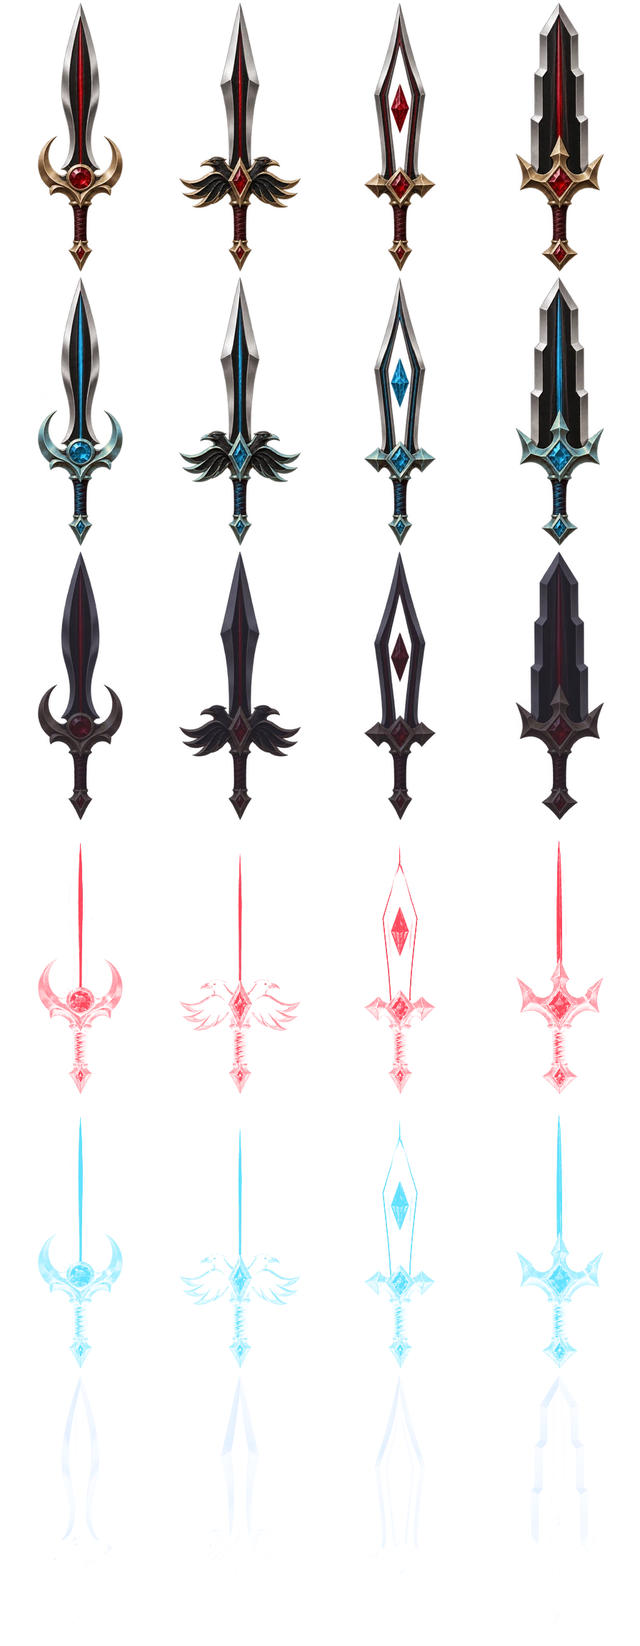
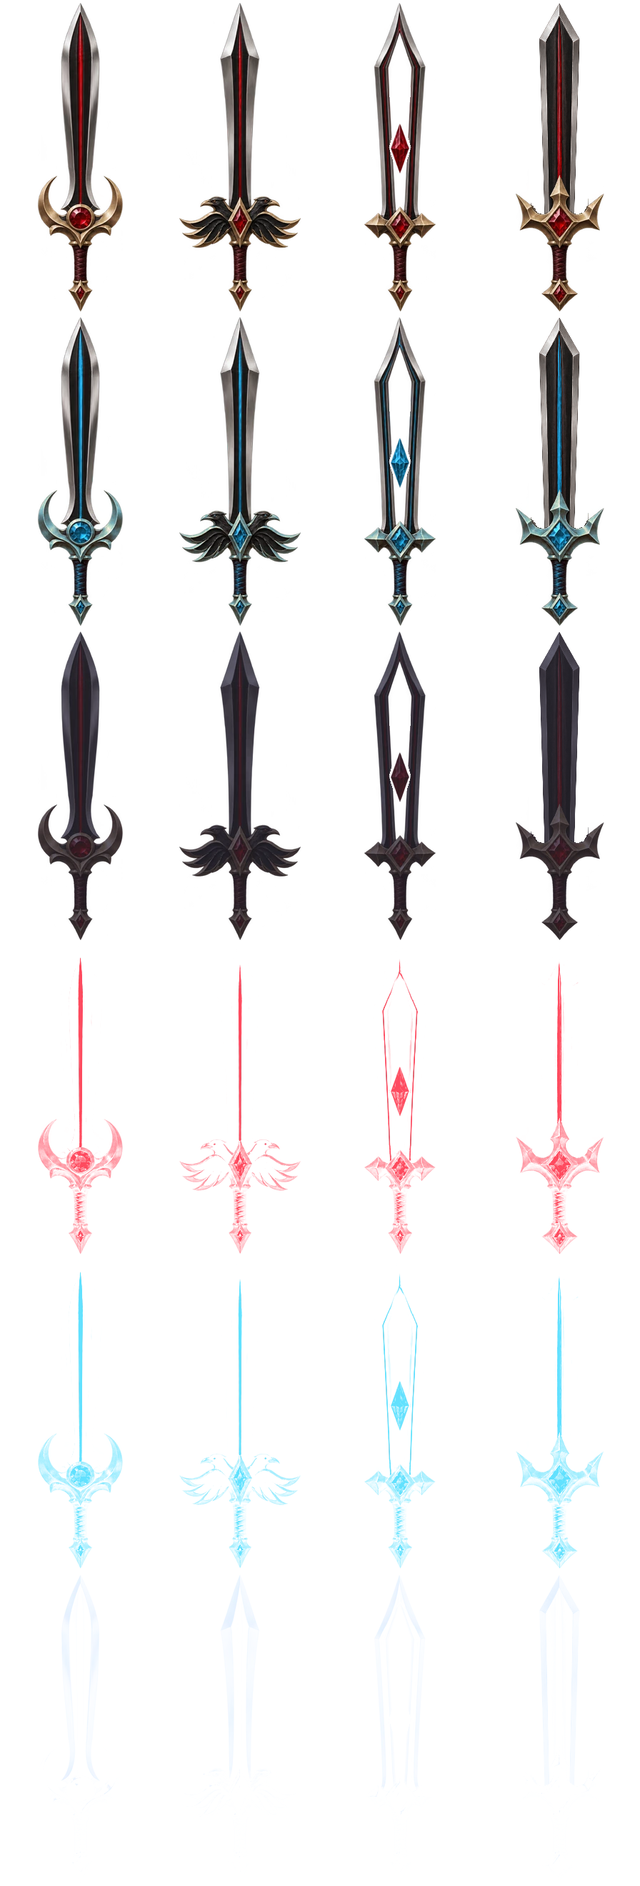
Lengthen the imperial blades and taper the crown sword toward the hilt

diff --git a/server/plastic-front/public/patch-notes.html b/server/plastic-front/public/patch-notes.html
@@ -2,7 +2,7 @@
 :root{color-scheme:light;--ink:#233c32;--muted:#53654f;--paper:#f6f3e8;--line:#cdd0bc;--accent:#385b3d}*{box-sizing:border-box}html{scroll-behavior:smooth;scroll-padding-top:24px}body{margin:0;background:var(--paper);color:var(--ink);font:16px/1.85 "Noto Sans KR",system-ui,sans-serif}::selection{background:#d6dfad;color:#173424}a{color:#30583a;text-underline-offset:4px}a:hover{color:#172f21}a:focus-visible,summary:focus-visible,[tabindex]:focus-visible{outline:3px solid #8b6e28;outline-offset:5px}header,main,footer{width:min(100% - 40px,1000px);margin-inline:auto}header{display:flex;justify-content:space-between;gap:24px;padding:24px 0;border-bottom:1px solid var(--line)}header a{font-weight:700}header span{color:var(--muted);font-size:14px}main{padding:48px 0 72px}h1{font-size:clamp(30px,5vw,46px);line-height:1.2;letter-spacing:-.035em;margin:0 0 14px}h2{font-size:25px;margin:44px 0 16px;letter-spacing:-.025em}h3{font-size:19px;margin:30px 0 10px}p{max-width:74ch;margin:12px 0}.intro{color:var(--muted);font-size:17px;max-width:65ch}.updated{font-variant-numeric:tabular-nums;font-size:14px;color:var(--muted)}.latest{border-top:2px solid var(--ink);border-bottom:1px solid var(--line);padding:22px 0;margin-top:32px}.latest h2{margin:0 0 16px}.latest li{margin:10px 0}ul{padding-left:24px}nav{display:flex;gap:12px 24px;flex-wrap:wrap;margin-top:28px}nav a{padding-block:6px}details{border-top:1px solid var(--line)}details:last-of-type{border-bottom:1px solid var(--line)}summary{cursor:pointer;padding:20px 4px;font-size:18px;font-weight:650;line-height:1.6}summary:hover{background:#e9eddc}details[open]>summary{color:#244d2b}.record{padding:0 18px 28px;overflow-wrap:anywhere}.record p,.record li{max-width:74ch}.record li{margin:8px 0}.table-scroll{overflow-x:auto}table{border-collapse:collapse;min-width:540px;font-size:14px;width:100%}th,td{padding:12px;text-align:left;vertical-align:top;border-bottom:1px solid var(--line)}th{background:#e8ecdb}code{font-size:.9em;overflow-wrap:anywhere}pre{white-space:pre-wrap;background:#e9ecdf;padding:16px;border-radius:3px;line-height:1.6}blockquote{margin:12px 0;padding:10px 16px;background:#e9ecdf;color:#3d513b;font-size:14px}footer{padding:24px 0 40px;border-top:1px solid var(--line);color:var(--muted);font-size:14px}footer p{margin:4px 0}@media(max-width:600px){header,main,footer{width:calc(100% - 32px)}header{align-items:flex-start;gap:16px}header span{font-size:12px;max-width:130px;text-align:right}main{padding-top:32px}body{font-size:15px}summary{font-size:16px}.record{padding-inline:4px}.latest{padding:18px 0}h2{font-size:22px}nav{gap:6px 18px}}@media(prefers-reduced-motion:reduce){html{scroll-behavior:auto}}
 </style></head><body><header><a href="./">PLASTIC FRONT</a><span>전체 패치 기록 · 2026.11.27</span></header><main><h1>패치 내역</h1><p class="intro">최근 수정과 지금까지의 변경 기록을 한곳에 모았습니다. 이 주소에서 다른 PC와 휴대폰에서도 같은 기록을 확인할 수 있습니다.</p><p class="updated">최신 업데이트 · 2026년 11월 27일 · 여검제와 사검의 입체 연출</p><nav aria-label="패치 내역 바로가기"><a href="#latest">최근 변경</a><a href="#history">전체 기록 (145개 항목)</a><a href="patch-notes.txt" download>원문 기록 받기</a><a href="./">게임으로 돌아가기</a></nav>
 <section class="latest" id="latest" aria-labelledby="latest-title"><h2 id="latest-title">현재 적용된 주요 변경</h2><ul><li><strong>여검제와 사검의 입체 연출</strong> · <a href="#empress-figurine-20261127">변경 내용 보기</a></li><li><strong>드론 짝 해금과 입체 동체</strong> · <a href="#drone-partner-cards">변경 내용 보기</a></li><li><strong>전투 드론 3종 무장과 독립 강화·완전 진화</strong> · <a href="#drone-pair-skills">변경 내용 보기</a></li><li><strong>전투 드론과 전술 멀티드론</strong> · 110G 교대 소환과 같은 성급 자동 도킹. <a href="#combat-drone-docking-20261126">변경 내용 보기</a></li><li><strong>거실 8분 난이도 전환과 영구 강화 보상</strong> · 8분·12분 신규 적 강화와 보스·일반 보급 영구 골드 상향. <a href="#living-room-progression-20261126">변경 내용 보기</a></li><li><strong>거실 전투·경제 밸런스와 병과 슬롯 확장</strong> · 초반 웨이브 완화, 박스·피버 조정, 병과 슬롯 6칸. <a href="#living-room-balance-20261126">변경 내용 보기</a></li><li><strong>지원 드론 경험치 일괄 회수와 스텔스</strong> · 반투명 스텔스로 이동해 주변 경험치 결정을 한꺼번에 회수합니다. <a href="#support-drone-stealth-20261126">변경 내용 보기</a></li><li><strong>대장 공격 중 화면 흔들림 수정</strong> · 대장의 반복 사격 중에도 화면을 안정적으로 유지합니다. <a href="#steady-commander-camera-20261126">변경 내용 보기</a></li><li><strong>지원 드론 후방 비행과 적 회피</strong> · 대장 뒤쪽에서 지원하며 적의 공격 범위를 피해 비행합니다. <a href="#support-drone-evasion-20261126">변경 내용 보기</a></li><li><strong>지원 드론</strong> · 서치라이트, 아군 실드, 경험치 자동 회수를 지원합니다. <a href="#support-drone-20261126">변경 내용 보기</a></li><li><strong>거실 초반 난이도 완화</strong> · 폭탄개미 수를 제한하고 초반 웨이브를 늦췄습니다. <a href="#opening-pressure-20261126">변경 내용 보기</a></li><li><strong>거실 초반 근접 웨이브</strong> · 일반 웨이브 소총병은 3분부터 소수로 합류합니다. <a href="#melee-opening-20261126">변경 내용 보기</a></li><li><strong>통신병 후방 배치</strong> · 의무병과 같은 후방 대형에서 폭격을 지원합니다. <a href="#radio-backline-20261126">변경 내용 보기</a></li><li><strong>전투 골드와 미스터리 박스 개편</strong> · 미스터리 박스와 전술 피버가 처음 도입된 기록입니다. <a href="#mystery-economy-20261126">변경 내용 보기</a></li><li><strong>거실 첫 30초 워밍업</strong> · 30초부터 개미 무리의 규모가 커집니다. <a href="#room-early-warmup-20261126">변경 내용 보기</a></li><li><strong>거실 초반 물량 · 경험치 · 붉은 보스 결정</strong> · 초반 개미 무리를 늘리고 보스가 높은 XP의 붉은 결정을 떨어뜨립니다. <a href="#room-opening-waves-xp-20261126">변경 내용 보기</a></li><li><strong>성급 합체 · 9분 운명의 별 · 특수 적 강화</strong> · 9분 미드 보스에서 운명의 별이 나오고, 폭탄개미와 해적 포탄병의 폭발 피해가 강해졌습니다. <a href="#rank-destiny-specials-20261126">변경 내용 보기</a></li><li><strong>원형 지뢰병 · 기관포탑 · 전술 핵 밸런스</strong> · 발밑 지뢰, 파괴 가능한 기관포탑, 핵 공용 쿨타임을 적용했습니다. <a href="#mine-turret-nuke-balance-20261126">변경 내용 보기</a></li><li><strong>버블 문어 실드 게이지와 입 모양</strong> · 체력 왼쪽에 하늘색 실드가 한 줄로 이어집니다. <a href="#bubble-octopus-shield-20261126">변경 내용 보기</a></li><li><strong>후방 지원 적 버블 문어</strong> · 하늘색 실드가 붙은 적은 문어를 먼저 노리세요. <a href="#bubble-octopus-20261126">변경 내용 보기</a></li><li><strong>레토나 룰렛 효과음 · 통신병 미사일 조준 보정</strong> · 회전음을 키우고, 움직이는 적의 위치에 맞춰 미사일 착탄점을 보정했습니다. <a href="#retona-audio-radio-aim-20261125">변경 내용 보기</a></li><li><strong>전투용 음악 추가 · 일반 전투 BGM 순환</strong> · 새 곡부터 시작해 ‘메이플같은 토이’와 번갈아 재생합니다. <a href="#battle-music-rotation-20261125">변경 내용 보기</a></li><li><strong>마우스 조준 보정 · 자석과 하트 확률 상향</strong> · 병사별 커서 조준, 전맵 자석 0.6%, 회복 하트 1.5%. <a href="#cursor-pickup-rates-20261125">변경 내용 보기</a></li><li><strong>바닥 경험치 · 자석 강화 · 분대 회복</strong> · 적이 떨어뜨린 경험치를 대장이 수집하고, 희귀 회복 하트로 분대가 함께 회복합니다. <a href="#ground-experience-20261125">변경 내용 보기</a></li><li><strong>12분 운명의 별 · 폭탄 적 증원 · 키 안내</strong> · 운명의 별은 12분 정식 보스부터, 폭탄개미와 폭탄앵무새는 초중반에 더 자주 등장합니다. <a href="#room-waves-hud-20261125">변경 내용 보기</a></li><li><strong>작전 시작 화면과 전장 선택 개편</strong> · 거실을 첫 전장으로 올리고 지도 미리보기와 작전 설정을 한 화면에 배치했습니다. <a href="#mission-menu-20261125">변경 내용 보기</a></li><li><strong>통신병 더블 재편 · 기관포탑 공중 투하</strong> · 1-1·2-2 기관포탑, 3-3·4-4 소이탄, 5-5 미사일, 진화 6-6 전술 핵. <a href="#signal-turret-20261125">변경 내용 보기</a></li><li><strong>강화 카드 즉시 적용 · 빈 레벨업 창 수정</strong> · 카드를 누르면 바로 적용되고, 강화가 소진되면 30G를 받은 뒤 전투를 이어갑니다. <a href="#upgrade-card-fixes-20261125">변경 내용 보기</a></li></ul></section>
-<section id="history" aria-labelledby="history-title"><h2 id="history-title">전체 패치 기록</h2><p>항목을 펼쳐 상세 내역을 확인하세요. 아래는 각 패치 당시의 기록이며, 이후 조정된 수치는 위 최신 내역과 뒤에 추가된 기록을 함께 확인하세요.</p><details open id="empress-figurine-20261127"><summary>2026.11.27 · 여검제와 사검의 입체 연출</summary><div class="record"><ul><li>여검제의 검은 갑옷과 붉은 안감을 입체 피규어 질감으로 표현했습니다. 대장이 선 방향을 보고, 검을 부를 때 손을 뻗으며 자세를 바꿉니다.</li><li>네 비검에 초승달 가드, 까마귀 날개 장식, 칼날 사이에 떠 있는 결정, 왕관형 대검을 각각 적용했습니다. 방어할 때는 푸른 결정이 빛나고, 공격 직전에는 붉은 빛이 짙어집니다.</li><li>네 자루의 검에 두께와 금속 반사를 넣었습니다. 회전 비검은 기울어진 궤적을 그리고, 가로·세로 돌진은 검 뒤에 가느다란 나선 잔광을 남깁니다.</li><li>낙검과 후열 급습은 높이에 따라 바닥 그림자가 움직이고, 착지하면 나무 파편이 튑니다. 후열 급습의 착탄점에는 조여드는 세 갈래 원호가 보입니다.</li></ul></div></details>
+<section id="history" aria-labelledby="history-title"><h2 id="history-title">전체 패치 기록</h2><p>항목을 펼쳐 상세 내역을 확인하세요. 아래는 각 패치 당시의 기록이며, 이후 조정된 수치는 위 최신 내역과 뒤에 추가된 기록을 함께 확인하세요.</p><details open id="empress-figurine-20261127"><summary>2026.11.27 · 여검제와 사검의 입체 연출</summary><div class="record"><ul><li>여검제의 검은 갑옷과 붉은 안감을 입체 피규어 질감으로 표현했습니다. 대장이 선 방향을 보고, 검을 부를 때 손을 뻗으며 자세를 바꿉니다.</li><li>네 비검에 초승달 가드, 까마귀 날개 장식, 칼날 사이에 떠 있는 결정, 왕관형 대검을 각각 적용했습니다. 네 검의 칼날을 약 25% 늘렸습니다. 앞 세 자루는 검끝으로 좁아지는 지점을 올렸고, 왕관 대검은 검끝 아래부터 가드 쪽으로 폭이 서서히 좁아집니다. 방어할 때는 푸른 결정이 빛나고, 공격 직전에는 붉은 빛이 짙어집니다.</li><li>네 자루의 검에 두께와 금속 반사를 넣었습니다. 회전 비검은 기울어진 궤적을 그리고, 가로·세로 돌진은 검 뒤에 가느다란 나선 잔광을 남깁니다.</li><li>낙검과 후열 급습은 높이에 따라 바닥 그림자가 움직이고, 착지하면 나무 파편이 튑니다. 후열 급습의 착탄점에는 조여드는 세 갈래 원호가 보입니다.</li></ul></div></details>
 <details id="drone-partner-cards"><summary>2026.11.26 · 드론 짝 해금과 입체 동체</summary><div class="record"><ul><li>소환 슬롯 6칸이 모두 찼을 때 지원·전투 드론 중 하나를 해금했다면 레벨업, 리롤, 보스 보상에서도 짝 드론 해금 카드가 나올 수 있습니다. 선택하면 원래 드론 자리에 통합되고 두 드론을 110G로 교대 소환합니다.</li><li>전투 드론과 합체 드론은 앞코를 낮추고 검은 창에서 뒤쪽 어깨까지 둥글게 솟도록 동체와 로터 높이를 다시 모델링했습니다. 합체형의 청록색 서치라이트는 뒤쪽 받침 위에 달았습니다.</li></ul></div></details>
 <details id="drone-pair-skills"><summary>2026.11.26 · 전투 드론 3종 무장과 독립 강화·완전 진화</summary><div class="record"><ul><li>전투 드론은 125G, 체력 130, 사거리 360px입니다. 기관포 2발(발당 10, 0.85초), 유도 로켓 2발(발당 26, 5초), 관통 레이저(65, 방어 무시, 7초)를 사용합니다. 레이저는 보스·정예 우선으로 최대 체력 적을 조준합니다.</li><li>전투 드론·공격속도 Lv.5에서 기관포 3연발, 로켓 4발·반경 +20%, 레이저 5초·보스/정예 피해 +25%로 진화합니다.</li><li>지원·전투 드론을 함께 해금하면 한 슬롯에서 110G로 짝을 교대 소환합니다. 만석에서도 미합체 1성의 짝은 즉시 도킹합니다. 두 병과는 별도 카드로 강화합니다. 합체 기본 체력 220, 공격력은 단독의 85%입니다. 지원·전투·경험치 획득량·공격속도가 모두 Lv.5일 때 완전 진화해 화력 100%, 스캔 +35%, 실드량 +30%, XP 탐색 420px가 됩니다.</li><li>합체 드론의 기본 체력은 각 병과가 110씩 기여하고 화력은 전투 레벨을 따릅니다. 지원 레벨당 스캔·XP 회수 반경과 실드량이 기본 대비 5%p씩 증가합니다. 완전 진화 시 로켓 반경 +25%, 레이저 4.5초·보스/정예 피해 +35%입니다.</li><li>전투 드론은 올리브색 동체의 중앙 아래에 검정 쌍열포를 달았습니다. 합체형은 검은 창 뒤의 높은 청록색 받침 위에 서치라이트를 올렸습니다. 금색 걸쇠와 렌즈 테두리, 좌우 착륙대가 보입니다.</li></ul></div></details><details id="combat-drone-docking-20261126"><summary>2026.11.26 · 전투 드론과 전술 멀티드론</summary><div class="record"><ul><li>전투 드론은 125G의 비행 병과입니다. 1성 Lv.1 기준 체력 130, 0.75초마다 발당 14의 펄스 2발, 사거리 360px입니다. 병과와 공격속도가 Lv.5면 펄스 3발 및 3.5초마다 유도 미사일 2발을 사용합니다.</li><li>지원·전투 드론을 모두 해금하면 통합 슬롯 하나가 두 병과를 담당합니다. 높은 병과 레벨을 계승하며, 통합 강화 카드가 두 드론을 함께 강화합니다. 양쪽 모두 110G로 소환하며 별도 병과 슬롯을 쓰지 않습니다.</li><li>미합체 1성 드론이 있으면 짝을 우선 소환합니다. 짝 없는 드론이 없으면 지원 드론부터 교대로 소환합니다. 만석에서는 필드에 있는 1성 드론의 짝만 주문할 수 있고 즉시 도킹해 인구수가 늘지 않습니다. 같은 2성 짝도 합체할 수 있습니다.</li><li>전술 멀티드론은 1성 기본 체력 220, 펄스 발당 12.32이며 지원 드론의 경험치 회수·실드·서치라이트를 함께 사용합니다. 통합 Lv.5에서 경험치 획득량이나 공격속도가 Lv.5면 두 기능이 함께 진화합니다.</li><li>같은 성급 멀티드론 3기로 2성 승급, 2성 3기와 운명의 별로 3성 승급을 합니다. 2성 전사는 1성 멀티드론으로 복귀하고, 장비 회수가 적용되는 전사에는 55G를 돌려받습니다.</li><li>전투 드론과 멀티드론의 동체 아래에 발사 모듈을 달았습니다. 펄스와 진화 미사일은 이 모듈에서 발사됩니다. 도킹할 때 두 기체가 합쳐지는 경로에 청록·주황빛 스파크가 발생합니다.</li></ul></div></details>
 <details id="living-room-progression-20261126"><summary>2026.11.26 · 거실 8분 난이도 전환과 영구 강화 보상</summary><div class="record"><ul><li>거실 출격 골드는 120G, 기본 수입은 초당 1.5G입니다. 초반 웨이브와 2:30 폭탄개미 진입은 직전 완화 수치를 적용합니다. 포탈 개방, 보스전·회복 구간 밖의 10분 전력 전환 증원 간격은 9.75초에서 6.80초로 줄였습니다.</li><li>8:00~11:59에 생성되는 일반 적과 보스는 체력 ×1.25, 공격력 ×1.20입니다. 12:00 이후 생성되는 적은 체력 ×1.40, 공격력 ×1.30입니다. 20분 최종 보스 사검의 군주 체력은 140,800입니다.</li><li>거실 일반 보급은 기본 영구 골드 10G를 지급합니다. 미드 보스는 15G, 정식 보스는 40G입니다. 보스 처치 시 자기 분대의 전맵 XP를 끌어오며, 9분과 14분 보스의 운명의 별은 각각 획득할 수 있습니다.</li><li>병과 소환은 1~6번, 출격과 레벨업의 리롤은 작전당 4회입니다. 대장 제외 기본 분대는 20기, 유닛 수 Lv.5는 29기입니다. 박격포병은 130G·공격 간격 3.2초, 전차는 230G·기본 공격력 115입니다.</li><li>F는 빈자리에서 미스터리 박스 220G, 만석에서 전술 피버 180G입니다. 박스 확률은 보병·50G 환급 30%, 일반 2기 44%, 2성 17%, 진화 2성 6%(6분 전 일반 2성), 황금 전차·레토나 각 1.5%입니다. 피버 재사용 대기는 발동 시점부터 25초입니다.</li><li>협동 웨이브는 1.8배입니다. 포탈 파괴 시 전투 300G·기본 영구 100G·기본 XP 300을 받고 증원이 감소합니다. 정식 보스 격파 후 16초 동안 회복 구간이 이어집니다.</li></ul></div></details>

diff --git a/server/plastic-front/public/boss-test.html b/server/plastic-front/public/boss-test.html
@@ -6,4 +6,4 @@
 <dialog id="guide"><h2>검의 움직임을 읽고 피하세요</h2><p>전장 클릭·터치: 부대 전체 집결 / WASD·방향키·왼쪽 패드: 대장 이동 / R·오른쪽 버튼: 궁극기</p><p>① 낙검·② 후열 급습: 원형 예고 밖으로 이동하세요. 칼끝부터 낙하합니다.<br>③ 회전 비검: 넓은 직선 경로 밖으로 이동하세요.<br>④ 세로 대열: 검들이 화면 안에서 ㅣ로 정렬하고, 짧은 경로 예고 후 좌우로 돌진합니다.<br>⑤ 가로 대열: 화면 안에서 ㅡ로 정렬하고 짧게 예고한 뒤 위아래로 돌진합니다.</p><p>점선 예고 → 경로 확정 → 발동. 확정된 위치는 부대를 추적하지 않습니다. 회전 비검·가로·세로 돌진은 병사 자동 회피, 후열 급습·낙검은 직접 부대 이동으로 대응합니다. 공수 전환도 먼저 예고합니다. 체력50%부터 눈을 뜨고 모든 방향이 열리며 검4개가 공격합니다.</p><form method="dialog"><button>확인</button></form></dialog>
 <dialog id="screen" aria-labelledby="screenTitle"><div class="modal-head"><div><small>DISPLAY</small><h2 id="screenTitle">화면 설정</h2></div><button id="closeScreen" type="button" aria-label="화면 설정 닫기">✕</button></div><label class="screen-label" for="screenZoom">전장 확대 <output id="screenZoomValue" for="screenZoom">100%</output></label><div class="screen-zoom"><button id="screenZoomOut" type="button" aria-label="전장 축소">−</button><input id="screenZoom" type="range" min="75" max="200" step="5" value="100"><button id="screenZoomIn" type="button" aria-label="전장 확대">+</button></div><p>100%는 본편과 같은 확대 기준입니다. 확대할수록 보이는 전장 범위가 줄어듭니다.</p><label class="screen-label" for="screenResolution">렌더링 해상도</label><select id="screenResolution"><option value="auto">자동 · 기기에 맞춤</option><option value="low">낮음 · 성능 우선</option><option value="standard">표준 · 1배</option><option value="high">높음 · 선명도 우선</option></select><p id="screenPixels" role="status"></p><p>설정은 이 브라우저에 저장됩니다.</p><div class="screen-actions"><button id="screenFit" type="button">기본 배율 100%</button><button id="screenDone" type="button" class="primary">완료</button></div></dialog>
 <script src="display.js?v=178"></script>
-<script src="waves-survival.js?v=178"></script><script src="waves-defense.js?v=178"></script><script src="room-campaign.js?v=20261126-room-progression1"></script><script src="bedroom-star.js?v=20261125-pixelroom1"></script><script src="battle-systems.js?v=20261125-xp-magnet2"></script><script src="engine.js?v=20261126-drone-crown1"></script><script src="evolution-combat.js?v=20261126-support-drone1"></script><script src="block-mines.js?v=20261126-threat-ranks1"></script><script src="roster-combat.js?v=20261126-support-drone1"></script><script src="lucky-flash.js?v=20261126-threat-ranks1"></script><script src="pirate-cannon.js?v=20261126-threat-ranks1"></script><script src="bubble-octopus.js?v=20261126-support-drone1"></script><script src="support-drone.js?v=20261126-drone-pair2"></script><script src="combat-drone.js?v=20261126-drone-crown1"></script><script src="bubble-octopus-view.js?v=20261126-field-balance1"></script><script src="pirate-cannon-view.js?v=20261126-threat-ranks1"></script><script src="block-flash-view.js?v=20261126-field-balance1"></script><script src="field-supplies.js?v=20261126-room-progression1"></script><script src="support-toys.js?v=20261124-payoff1"></script><script src="support-toys-view.js?v=20261124-payoff1"></script><script src="evolution-links.js?v=20261126-drone-pair2"></script><script src="autoplay.js?v=20261126-drone-pair2"></script><script src="medic-skin.js?v=20261108-rina120"></script><script src="radio-airspace.js?v=20261125-signalman1"></script><script src="radio-art.js?v=20261126-field-balance1"></script><script src="roster-art.js?v=20261126-drone-crown1"></script><script src="models.js?v=20261126-drone-pair2"></script><script src="effects.js?v=20261126-drone-pair2"></script><script src="hit-feedback.js?v=20261126-mystery-economy1"></script><script src="impact-materials.js?v=20261106i"></script><script src="commander-effects.js?v=20261126-drone-pair2"></script><script src="combat-feedback.js?v=20261114-combat1"></script><script src="livingroom.js?v=20261115-bedroom1"></script><script src="sword-boss.js?v=20261126-room-progression1"></script><script src="front-portal.js?v=20261108-polish2"></script><script src="sword-boss-view.js?v=20261127-royal-blades1"></script><script src="boss-test.js?v=20261125-radio-airpass1"></script></body></html>
+<script src="waves-survival.js?v=178"></script><script src="waves-defense.js?v=178"></script><script src="room-campaign.js?v=20261126-room-progression1"></script><script src="bedroom-star.js?v=20261125-pixelroom1"></script><script src="battle-systems.js?v=20261125-xp-magnet2"></script><script src="engine.js?v=20261126-drone-crown1"></script><script src="evolution-combat.js?v=20261126-support-drone1"></script><script src="block-mines.js?v=20261126-threat-ranks1"></script><script src="roster-combat.js?v=20261126-support-drone1"></script><script src="lucky-flash.js?v=20261126-threat-ranks1"></script><script src="pirate-cannon.js?v=20261126-threat-ranks1"></script><script src="bubble-octopus.js?v=20261126-support-drone1"></script><script src="support-drone.js?v=20261126-drone-pair2"></script><script src="combat-drone.js?v=20261126-drone-crown1"></script><script src="bubble-octopus-view.js?v=20261126-field-balance1"></script><script src="pirate-cannon-view.js?v=20261126-threat-ranks1"></script><script src="block-flash-view.js?v=20261126-field-balance1"></script><script src="field-supplies.js?v=20261126-room-progression1"></script><script src="support-toys.js?v=20261124-payoff1"></script><script src="support-toys-view.js?v=20261124-payoff1"></script><script src="evolution-links.js?v=20261126-drone-pair2"></script><script src="autoplay.js?v=20261126-drone-pair2"></script><script src="medic-skin.js?v=20261108-rina120"></script><script src="radio-airspace.js?v=20261125-signalman1"></script><script src="radio-art.js?v=20261126-field-balance1"></script><script src="roster-art.js?v=20261126-drone-crown1"></script><script src="models.js?v=20261126-drone-pair2"></script><script src="effects.js?v=20261126-drone-pair2"></script><script src="hit-feedback.js?v=20261126-mystery-economy1"></script><script src="impact-materials.js?v=20261106i"></script><script src="commander-effects.js?v=20261126-drone-pair2"></script><script src="combat-feedback.js?v=20261114-combat1"></script><script src="livingroom.js?v=20261115-bedroom1"></script><script src="sword-boss.js?v=20261126-room-progression1"></script><script src="front-portal.js?v=20261108-polish2"></script><script src="sword-boss-view.js?v=20261127-long-blades1"></script><script src="boss-test.js?v=20261125-radio-airpass1"></script></body></html>

diff --git a/server/plastic-front/public/index.html b/server/plastic-front/public/index.html
@@ -217,7 +217,7 @@
 <div id="fusionOverlay" class="overlay" hidden><section class="modal fusion-modal" role="dialog" aria-modal="true" aria-labelledby="fusionTitle"><div class="permanent-head"><div><h2 id="fusionTitle">병과 합성과 운명의 별</h2></div><button id="closeFusion" aria-label="합성 닫기">✕</button></div><p id="fusionRules"></p><div id="fusionGrid" class="fusion-grid"></div></section></div>
 <div id="waveTestOverlay" class="overlay" hidden><section class="modal wave-test-modal" role="dialog" aria-modal="true" aria-labelledby="waveTestTitle"><div class="permanent-head"><div><div class="eyebrow">WAVE LAB</div><h2 id="waveTestTitle">원하는 시간대 시험하기</h2></div><button id="closeWaveTest" aria-label="웨이브 테스트 닫기">✕</button></div><p>시간대 추천 병력·강화를 적용하거나 직접 편성해서 시험합니다. 원래 작전은 멈춰 두고, 테스트를 끝내면 그대로 돌아갑니다.</p><p id="waveTestCurrent"></p><div class="wave-time-inputs"><label>분<input id="waveTestMinute" type="number" min="0" max="20" step="1" value="12" inputmode="numeric"></label><span>:</span><label>초<input id="waveTestSecond" type="number" min="0" max="59" step="1" value="0" inputmode="numeric"></label></div><div id="waveTestPresets" class="wave-time-presets"><button data-wave-minute="4">4분</button><button data-wave-minute="6">6분</button><button data-wave-minute="8">8분</button><button data-wave-minute="10">10분</button><button data-wave-minute="12">12분</button><button data-wave-minute="15">15분</button><button data-wave-minute="16">16분</button><button data-wave-minute="17">17분</button><button data-wave-minute="18">18분</button><button data-wave-minute="19">19분</button><button data-wave-minute="20">20분</button></div><p id="waveTestPreview" class="wave-test-preview" aria-live="polite"></p><section id="waveLoadout" class="wave-loadout"></section><label class="wave-heal-option"><input id="waveTestHeal" type="checkbox">이동할 때 생존한 아군의 체력 회복</label><p class="wave-test-note">시간 성장과 해당 웨이브가 함께 적용됩니다. 떠돌던 적·공격·장판은 정리하고 지나간 보스·전차는 생략합니다. 거점·지형·개인 영구 강화는 유지합니다. 추천·직접 편성은 새 병력으로 시작하며, 현재 분대 모드에서는 회복 여부만 선택합니다.</p><p id="waveTestStatus" role="status">테스트 골드와 진행은 원래 저장에 반영되지 않습니다.</p><div class="wave-test-actions"><button id="returnWaveTest" hidden>원래 작전으로</button><button id="beginWaveTest" class="primary">이 시점에서 테스트 →</button></div></section></div>
 <script src="waves-survival.js?v=178"></script><script src="waves-defense.js?v=178"></script>
-<script src="room-campaign.js?v=20261126-room-progression1"></script><script src="bedroom-star.js?v=20261125-pixelroom1"></script><script src="battle-systems.js?v=20261125-xp-magnet2"></script><script src="engine.js?v=20261126-drone-crown1"></script><script src="evolution-combat.js?v=20261126-support-drone1"></script><script src="block-mines.js?v=20261126-threat-ranks1"></script><script src="roster-combat.js?v=20261126-support-drone1"></script><script src="lucky-flash.js?v=20261126-threat-ranks1"></script><script src="pirate-cannon.js?v=20261126-threat-ranks1"></script><script src="bubble-octopus.js?v=20261126-support-drone1"></script><script src="support-drone.js?v=20261126-drone-pair2"></script><script src="combat-drone.js?v=20261126-drone-crown1"></script><script src="bubble-octopus-view.js?v=20261126-field-balance1"></script><script src="pirate-cannon-view.js?v=20261126-threat-ranks1"></script><script src="block-flash-view.js?v=20261126-field-balance1"></script><script src="field-supplies.js?v=20261126-room-progression1"></script><script src="support-toys.js?v=20261124-payoff1"></script><script src="support-toys-view.js?v=20261124-payoff1"></script><script src="evolution-links.js?v=20261126-drone-pair2"></script><script src="sword-boss.js?v=20261126-room-progression1"></script><script src="front-portal.js?v=20261108-polish2"></script><script src="sword-boss-view.js?v=20261127-royal-blades1"></script><script src="two-star.js?v=20261126-drone-pair2"></script><script src="summoning.js?v=20261126-drone-pair2"></script><script src="coop-engine.js?v=20261126-drone-crown1"></script><script src="audio.js?v=20261125-reticle-radio1"></script><script src="music.js?v=20261125-bgm-rotation1"></script>
+<script src="room-campaign.js?v=20261126-room-progression1"></script><script src="bedroom-star.js?v=20261125-pixelroom1"></script><script src="battle-systems.js?v=20261125-xp-magnet2"></script><script src="engine.js?v=20261126-drone-crown1"></script><script src="evolution-combat.js?v=20261126-support-drone1"></script><script src="block-mines.js?v=20261126-threat-ranks1"></script><script src="roster-combat.js?v=20261126-support-drone1"></script><script src="lucky-flash.js?v=20261126-threat-ranks1"></script><script src="pirate-cannon.js?v=20261126-threat-ranks1"></script><script src="bubble-octopus.js?v=20261126-support-drone1"></script><script src="support-drone.js?v=20261126-drone-pair2"></script><script src="combat-drone.js?v=20261126-drone-crown1"></script><script src="bubble-octopus-view.js?v=20261126-field-balance1"></script><script src="pirate-cannon-view.js?v=20261126-threat-ranks1"></script><script src="block-flash-view.js?v=20261126-field-balance1"></script><script src="field-supplies.js?v=20261126-room-progression1"></script><script src="support-toys.js?v=20261124-payoff1"></script><script src="support-toys-view.js?v=20261124-payoff1"></script><script src="evolution-links.js?v=20261126-drone-pair2"></script><script src="sword-boss.js?v=20261126-room-progression1"></script><script src="front-portal.js?v=20261108-polish2"></script><script src="sword-boss-view.js?v=20261127-long-blades1"></script><script src="two-star.js?v=20261126-drone-pair2"></script><script src="summoning.js?v=20261126-drone-pair2"></script><script src="coop-engine.js?v=20261126-drone-crown1"></script><script src="audio.js?v=20261125-reticle-radio1"></script><script src="music.js?v=20261125-bgm-rotation1"></script>
 <script src="medic-skin.js?v=20261108-rina120"></script><script src="radio-airspace.js?v=20261125-signalman1"></script><script src="radio-art.js?v=20261126-field-balance1"></script><script src="roster-art.js?v=20261126-drone-crown1"></script><script src="support-drone-view.js?v=20261126-drone-pair2"></script><script src="models.js?v=20261126-drone-pair2"></script><script src="toy-insects.js?v=20261126-threat-ranks1"></script>
 <script src="effects.js?v=20261126-drone-pair2"></script><script src="hit-feedback.js?v=20261126-mystery-economy1"></script><script src="impact-materials.js?v=20261106i"></script>
 <script src="projectile-materials.js?v=20261109-toys2"></script>

diff --git a/server/plastic-front/public/sword-boss-view.js b/server/plastic-front/public/sword-boss-view.js
@@ -6,7 +6,7 @@ function star(c,x,y,r,color){c.fillStyle=color;c.beginPath();c.moveTo(x,y-r);c.q
 function capsule(c,a){const d=Math.atan2(a.end.y-a.start.y,a.end.x-a.start.x),px=-Math.sin(d)*a.radius,py=Math.cos(d)*a.radius;c.beginPath();c.moveTo(a.start.x+px,a.start.y+py);c.lineTo(a.end.x+px,a.end.y+py);c.arc(a.end.x,a.end.y,a.radius,d+Math.PI/2,d-Math.PI/2,true);c.lineTo(a.start.x-px,a.start.y-py);c.arc(a.start.x,a.start.y,a.radius,d-Math.PI/2,d+Math.PI/2,true);c.closePath();}
 // Four columns keep the same sword identity through every stance. Rows contain
 // attack/guard faces, the recessed metal edge, the two inlays, and polished steel.
-const bladeWidth=224,bladeHeight=384;
+const bladeWidth=224,bladeHeight=440;
 function drawSword(c,atlas,id,len,rotation,roll,pitch,guard,charge,time){
  const yaw=clamp(roll,-1.1,1.1),cb=Math.cos(yaw),sb=Math.sin(yaw),ct=Math.cos(pitch),st=Math.sin(pitch);
  const half=bladeWidth/2,top=-bladeHeight/2,sourceX=id*bladeWidth;
@@ -49,7 +49,7 @@ class View{
   const load=(image,file)=>new Promise((resolve,reject)=>{
    image.onload=resolve;image.onerror=reject;image.src='assets/sword-boss/'+file;
   });
-  this.ready=Promise.all([load(this.body,'empress-figurine.webp'),load(this.blades,'empress-royal-blades.webp')]);
+  this.ready=Promise.all([load(this.body,'empress-figurine.webp'),load(this.blades,'empress-royal-blades.webp?v=long-blades1')]);
  }
  healthBar(c,b,x,y,width){
   if(!b||b.hp<=0||!Number.isFinite(b.maxHp)||b.maxHp<=0)return;
@@ -131,7 +131,7 @@ class View{
   c.restore();
  }
  bladePose(s,b,g){
-  const a=s.action,drop=!!a&&['drop','rear'].includes(a.pattern),active=a?.stage==='active',len=drop?136:a?.pattern==='spin'?122:112;
+  const a=s.action,drop=!!a&&['drop','rear'].includes(a.pattern),active=a?.stage==='active',len=(drop?136:a?.pattern==='spin'?122:112)*(bladeHeight-8)/376;
   const returning=a?.stage==='return',progress=returning?clamp((g.time-a.started)/a.duration,0,1):0,turn=drop&&returning?clamp((progress-.35)/.65,0,1):0;
   const fall=active?clamp((g.time-a.fireAt)/a.duration,0,1):0,embed=drop?(a.stage==='hold'?12:active?12*fall**3:returning?12*(1-clamp(progress/.35,0,1)):0):0;
   const guard=s.mode==='defend'?this.shieldGeometry(b,s,g):null;
